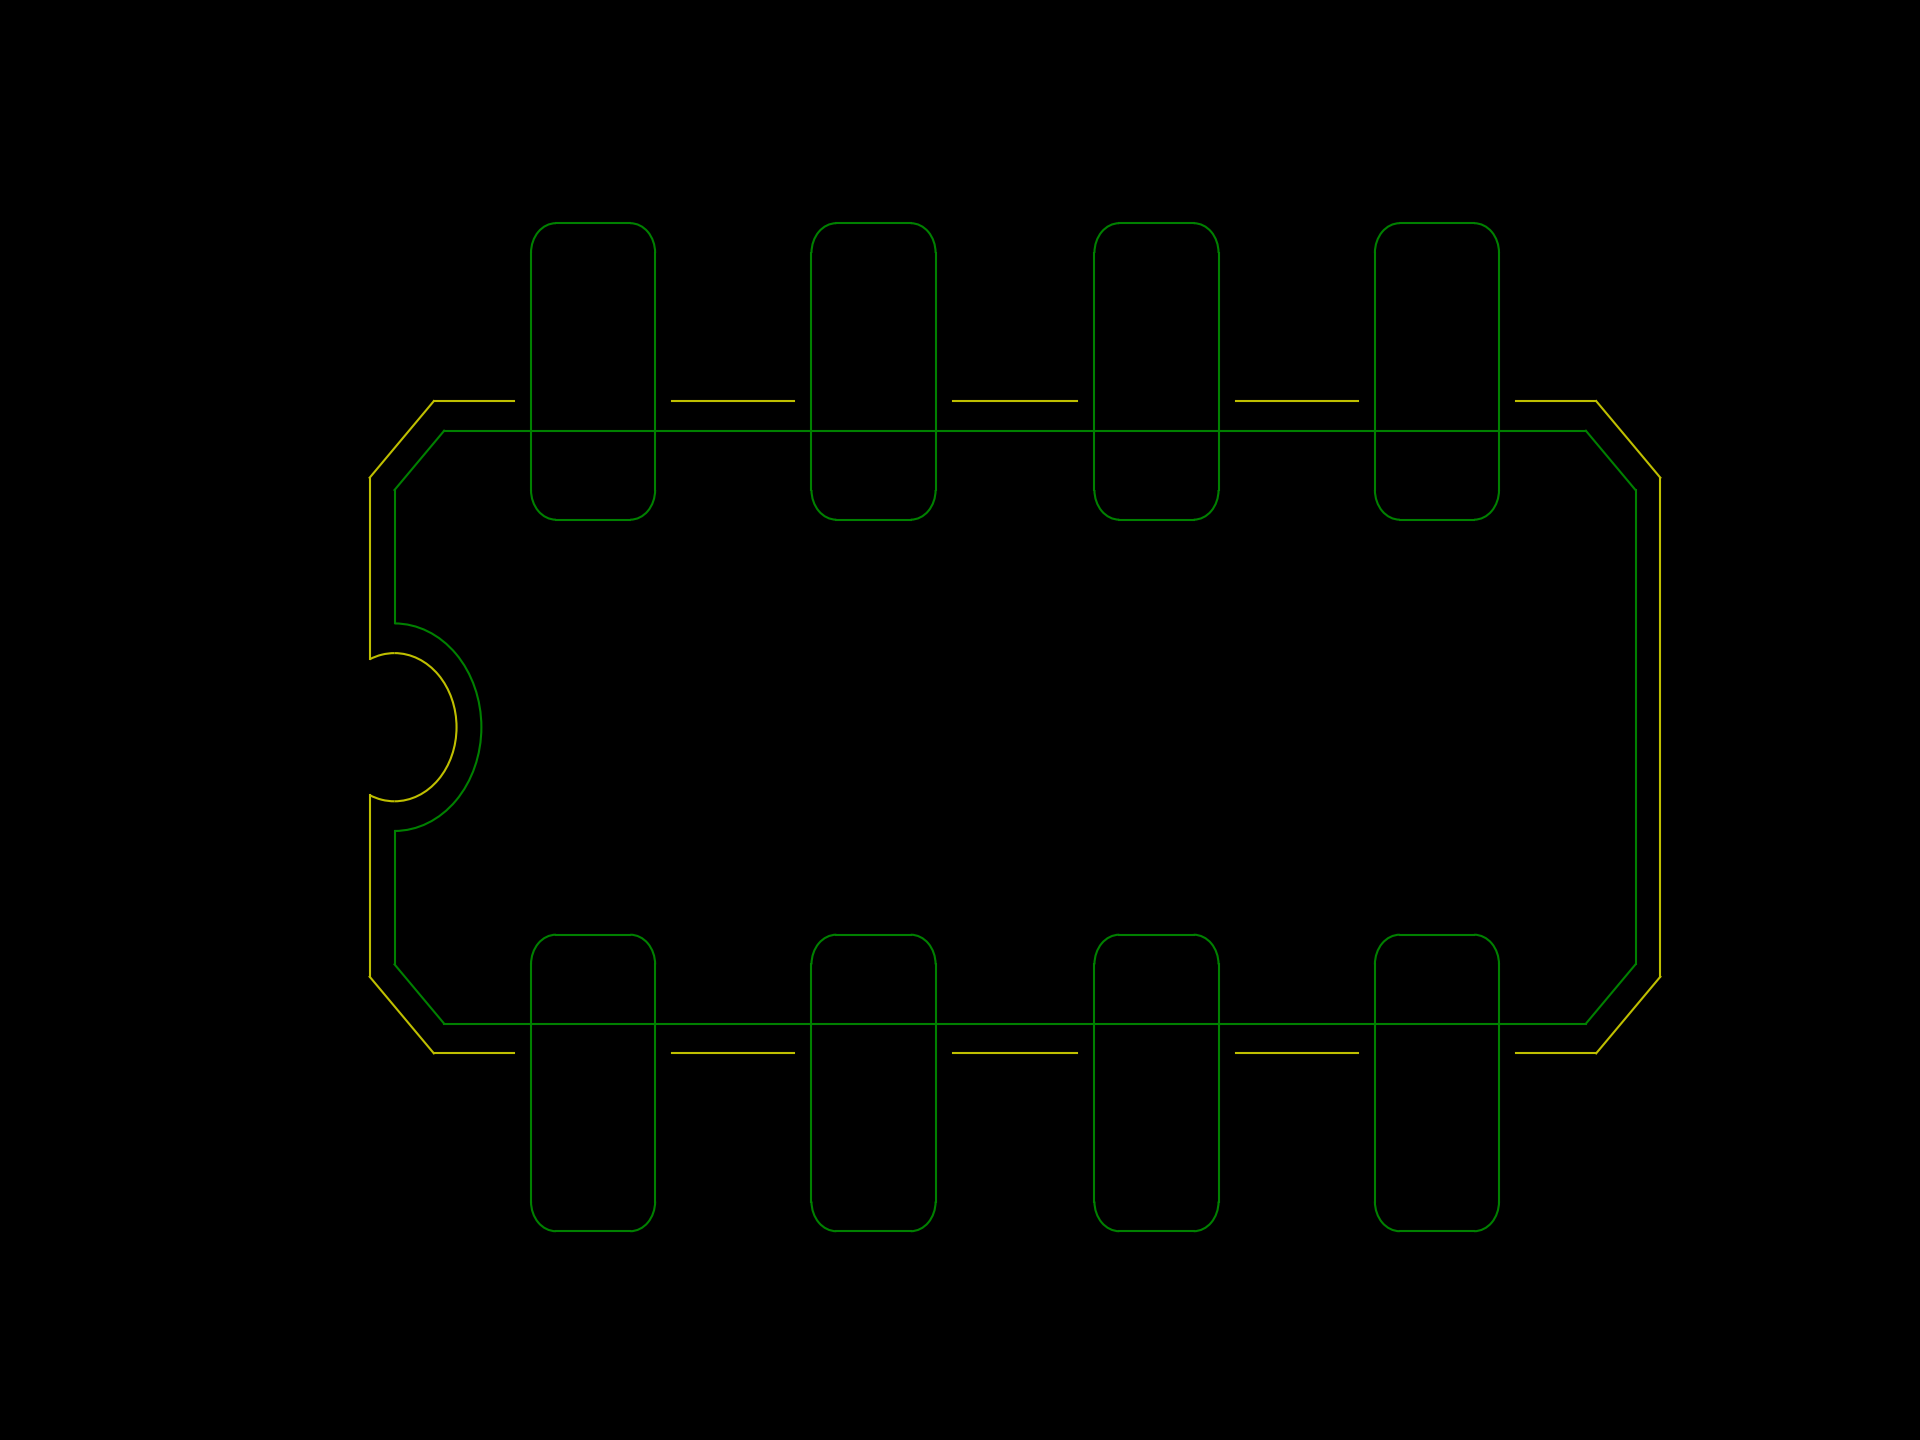
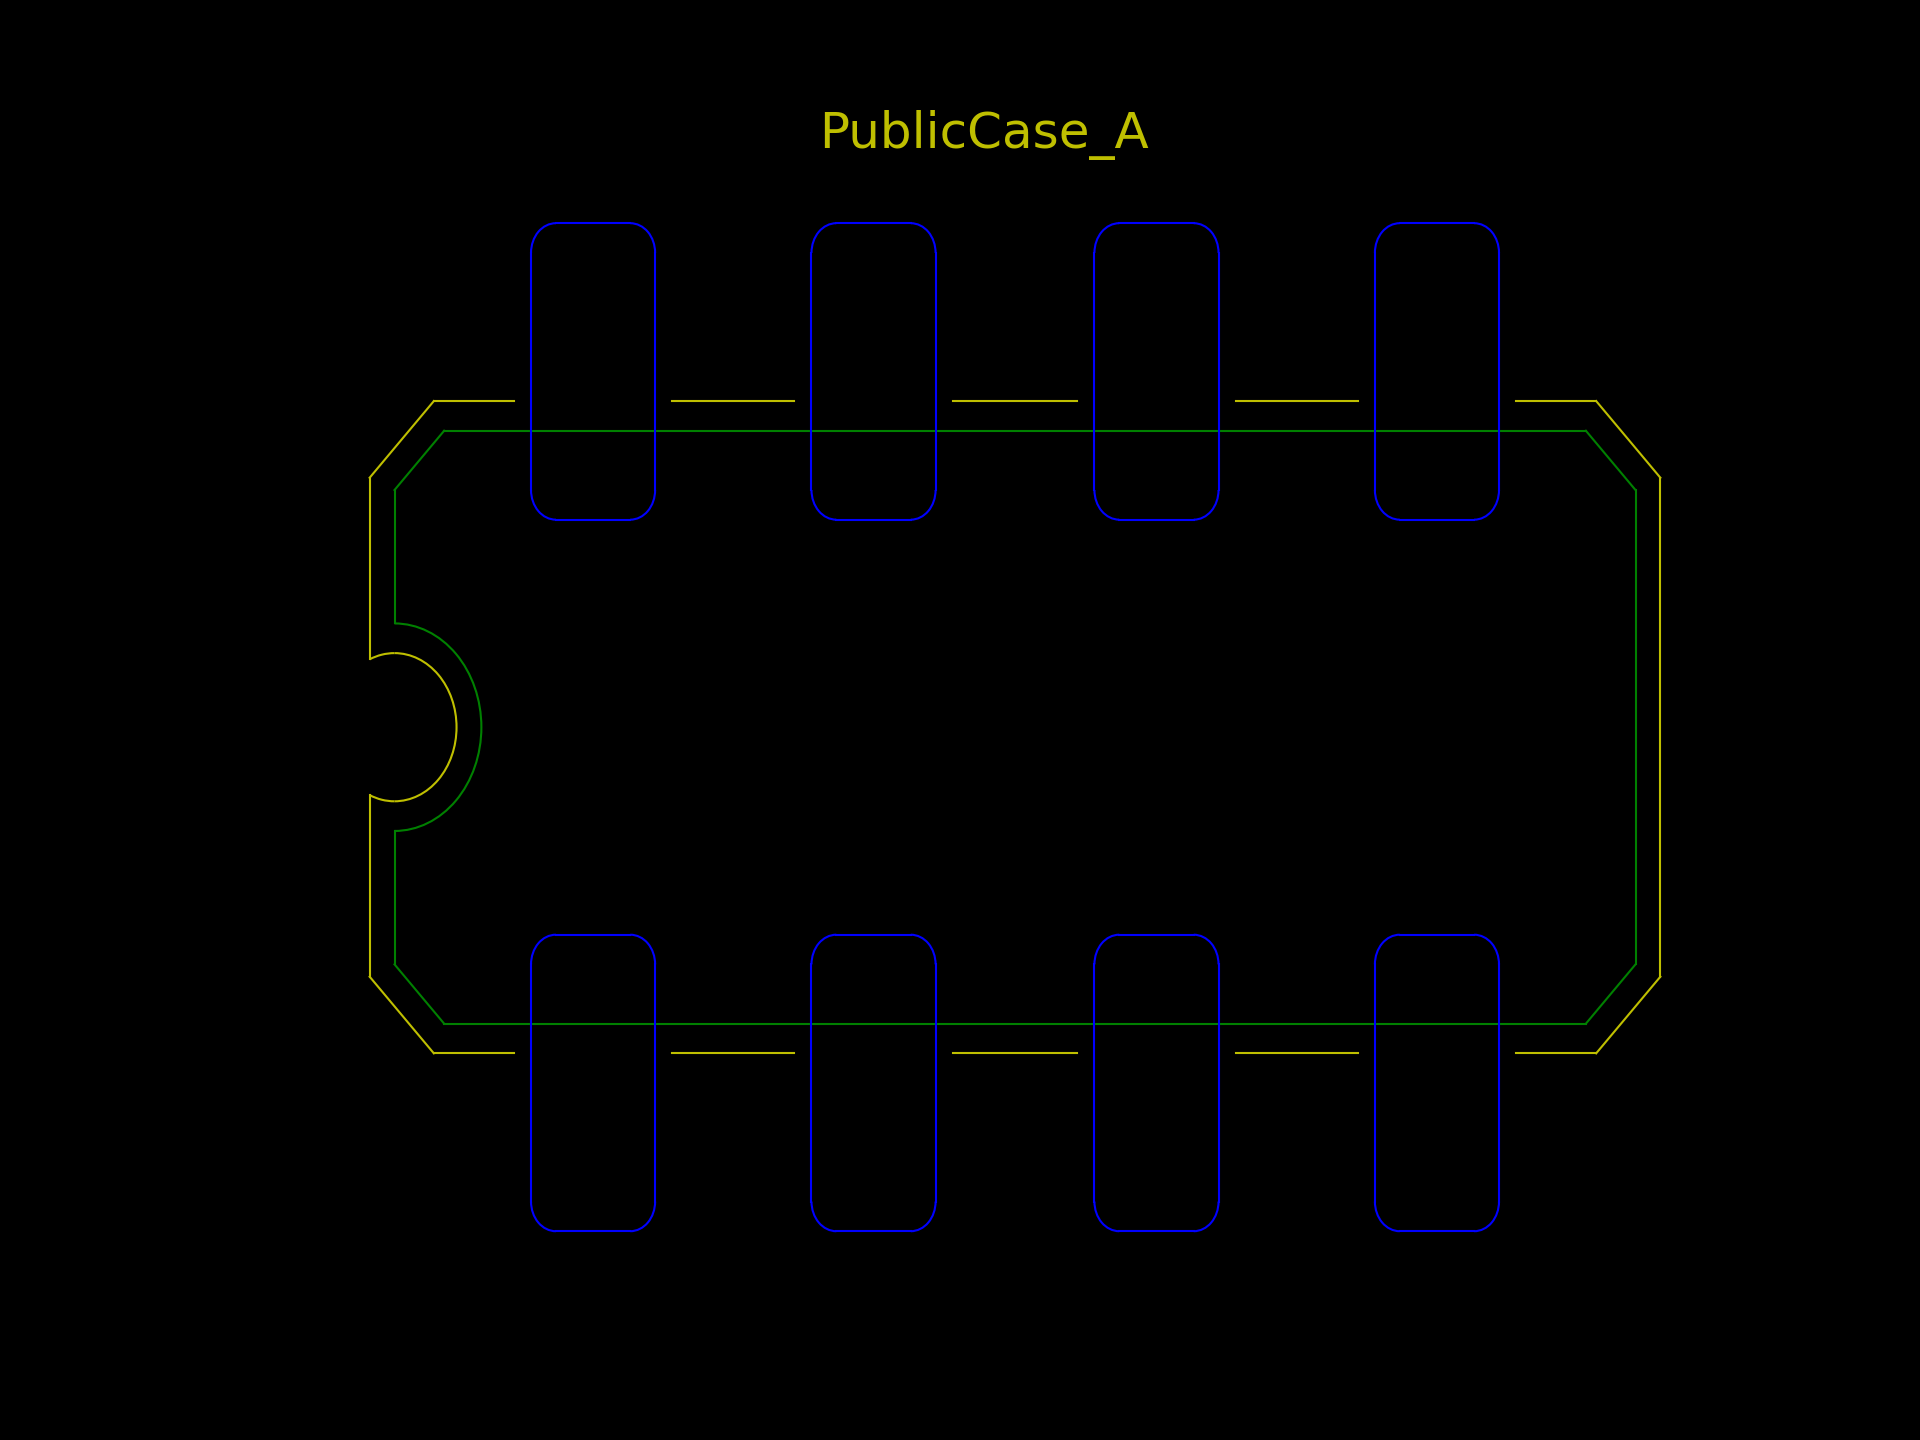
change copper color and add title

Changed region(s): [[0.4375, 0.0625, 0.5938, 0.125]]

diff --git a/visualize.py b/visualize.py
@@ -23,12 +23,17 @@ fg = plt.figure()
 fg.patch.set_facecolor('k')
 ax = fg.add_subplot(111)
 ax.set_facecolor('k')
+plt.title("PublicCase_" + choice, color='y')
 
 
 def ReadIn(type, x1, x2, y1, y2, cirx, ciry, cir_dir, f):
+    assembly_going = True
     for line in f.readlines():
         s = line.split(',')
         if len(s) < 4:
+            if s[0] == "copper\n" and assembly_going:
+                assembly_going = False
+                type.append('end_of_assembly')
             continue
         else:
             type.append(str(s[0]))
@@ -57,6 +62,9 @@ for i in range(len(x1)):
     if type[i] == 'end_of_input':
         type.remove('end_of_input')
         color = 'y'
+    elif type[i] == 'end_of_assembly':
+        type.remove('end_of_assembly')
+        color = 'b'
     if type[i] == 'line':
         x = [x1[i], x2[i]]
         y = [y1[i], y2[i]]
